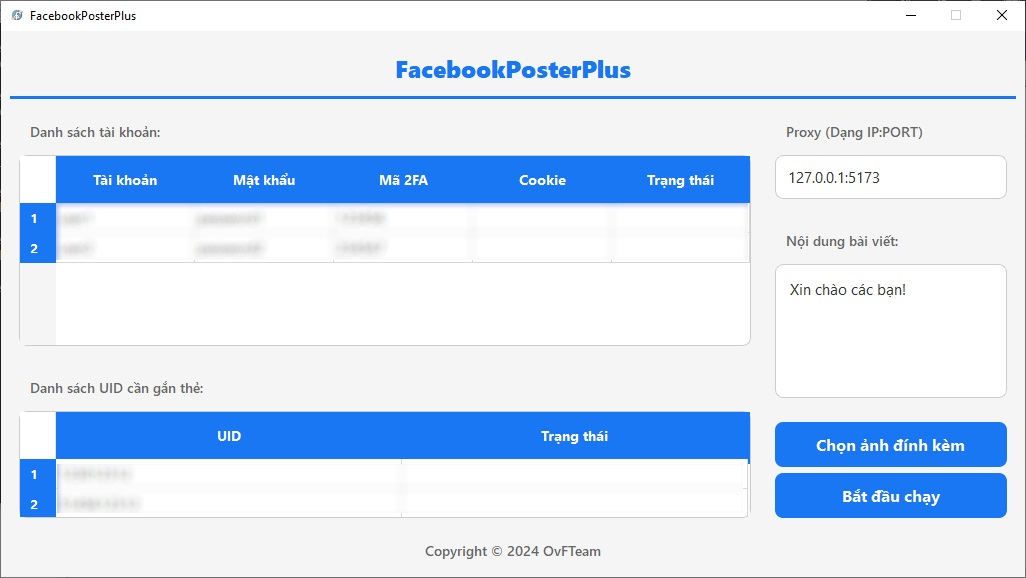
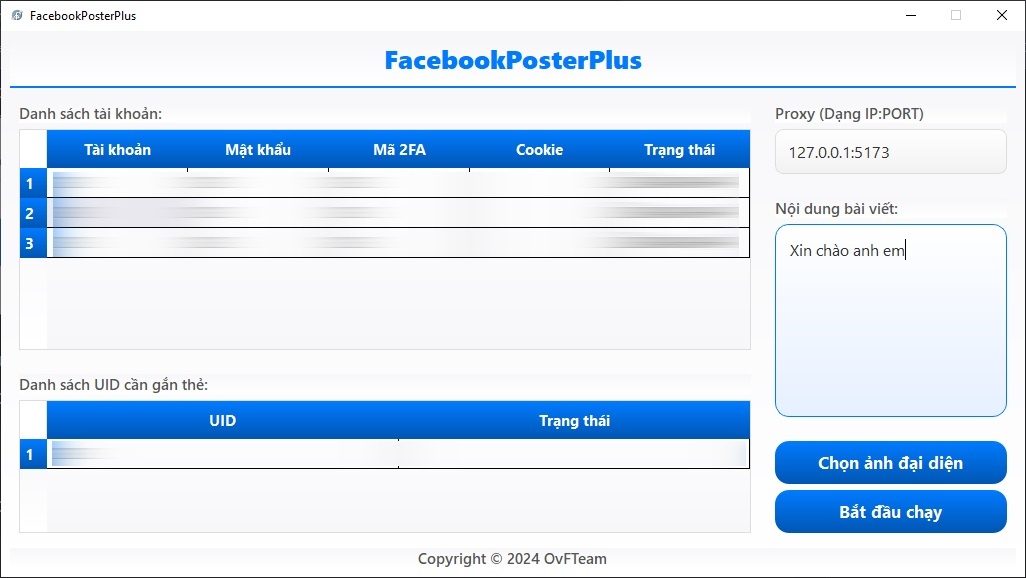
fix: update methods/UI, add worker to prevent not responding

Changed region(s): [[0.0, 0.0623, 1.0, 1.0], [0.7485, 0.4983, 0.8733, 0.5294]]

diff --git a/gui/main_window.py b/gui/main_window.py
@@ -1,7 +1,6 @@
 import base64
-import threading
 
-from PyQt5.QtCore import QBuffer, QIODevice, Qt
+from PyQt5.QtCore import QBuffer, QIODevice, Qt, QThread, pyqtSignal
 from PyQt5.QtGui import QIcon, QImage, QPixmap
 from PyQt5.QtWidgets import (QApplication, QHBoxLayout, QMainWindow,
                              QMessageBox, QTableWidgetItem, QVBoxLayout,
@@ -14,10 +13,67 @@ from .components import (AccountInput, ButtonPanel, Footer, Header,
 from .resources import base64_icon, qss
 
 
+class WorkerThread(QThread):
+    update_status = pyqtSignal(int, str, str)
+    update_uid_status = pyqtSignal(str)
+    update_cookies = pyqtSignal(int, str)
+    finished = pyqtSignal(str)  # Ensure this signal has one argument
+
+    def __init__(self, index, account_details, proxy, post_content, user_ids, avatar_file_path):
+        super().__init__()
+        self.index = index
+        self.account_details = account_details
+        self.proxy = proxy
+        self.post_content = post_content
+        self.user_ids = user_ids
+        self.avatar_file_path = avatar_file_path
+        self.facebook_instance = None
+        self._stop_requested = False
+
+    def run(self):
+        self.facebook_instance = FacebookChrome(
+            username=self.account_details[0], password=self.account_details[1], proxy=self.proxy)
+        login_status = self.facebook_instance.login()
+        if self._stop_requested:
+            self.finished.emit("ĐÃ DỪNG LẠI")
+            return
+        self.update_status.emit(self.index, login_status,
+                                'red' if "LỖI" in login_status else '')
+        if "LỖI" in login_status:
+            self.finished.emit("ĐĂNG NHẬP THẤT BẠI")
+            return
+        cookies = self.facebook_instance.get_cookies()
+        self.update_cookies.emit(self.index, cookies)
+
+        if login_status == "ĐĂNG NHẬP THÀNH CÔNG" and self.avatar_file_path:
+            avatar_status = self.facebook_instance.change_avatar(
+                self.avatar_file_path)
+            self.update_status.emit(
+                self.index, avatar_status, 'red' if "LỖI" in avatar_status else '')
+
+        if login_status == "ĐĂNG NHẬP THÀNH CÔNG":
+            post_status = self.facebook_instance.post_status(
+                self.post_content, self.user_ids)
+            self.update_uid_status.emit('THÀNH CÔNG')
+            self.update_status.emit(
+                self.index, post_status, 'red' if "LỖI" in post_status else 'green')
+
+        self.finished.emit("HOÀN TẤT")
+
+    def stop(self):
+        self._stop_requested = True
+        if self.facebook_instance:
+            status = self.facebook_instance.quit()
+            self.finished.emit(status)
+
+
 class MainWindow(QMainWindow):
     def __init__(self):
         super().__init__()
         self._initUI()
+        self.workers = []
+        self.worker_count = 0
+        self.completed_workers = 0
 
     def _initUI(self):
         central_widget = QWidget()
@@ -40,7 +96,7 @@ class MainWindow(QMainWindow):
         right_section_layout = QVBoxLayout()
         self.proxy_input = ProxyInput()
         self.post_content = PostContent()
-        self.button_panel = ButtonPanel()
+        self.button_panel = ButtonPanel(self)
 
         right_section_layout.addWidget(self.proxy_input)
         right_section_layout.addWidget(self.post_content)
@@ -89,55 +145,54 @@ class MainWindow(QMainWindow):
         account_list = self.account_input.get_table_data()
         avatar_file_path = self.button_panel.get_image_path()
         post_content = self.post_content.get_content()
-
+        self.button_panel.toggle_run_state(True)
         if not post_content:
-            self.button_panel.toggle_run_state()
+            self.button_panel.toggle_run_state(False)
             QMessageBox.critical(self, "Lỗi", "Chưa điền nội dung bài đăng!")
             return
-
         if not user_ids:
-            self.button_panel.toggle_run_state()
+            self.button_panel.toggle_run_state(False)
             QMessageBox.critical(self, "Lỗi", "Chưa cung cấp UID!")
             return
 
-        def process_facebook_account(index, account_details):
-            facebook_instance = FacebookChrome(
-                username=account_details[0], password=account_details[1], proxy=proxy)
-            login_status = facebook_instance.login()
-            self.account_input.set_status(
-                index, f"{login_status}")
-            if "LỖI" in login_status:
-                self.account_input.set_status_color(index, "red")
-            self.account_input.table.setItem(index, 3, QTableWidgetItem(
-                facebook_instance.get_cookie().get('c_user', 'COOKIE NOT FOUND')))
-            if login_status == "ĐĂNG NHẬP THÀNH CÔNG" and avatar_file_path:
-                avatar_status = facebook_instance.change_avatar(
-                    avatar_file_path)
-                status_message = f"{avatar_status}"
-                self.account_input.set_status(index, status_message)
-                if "LỖI" in avatar_status:
-                    self.account_input.set_status_color(index, "red")
-                QApplication.processEvents()
+        def update_status(index, status, color):
+            self.account_input.set_status(index, status)
+            self.account_input.set_status_color(index, color)
+            QApplication.processEvents()
 
-            if login_status == "ĐĂNG NHẬP THÀNH CÔNG":
-                post_status = facebook_instance.post_status(
-                    post_content, user_ids)
-                self.uid_input.set_status('THÀNH CÔNG')
-                status_message = f"{post_status}"
-                self.account_input.set_status(index, status_message)
-                if "LỖI" in post_status:
-                    self.account_input.set_status_color(index, "red")
-                else:
-                    self.account_input.set_status_color(index, "green")
-                QApplication.processEvents()
+        def update_uid_status(status):
+            self.uid_input.set_status(status)
+            QApplication.processEvents()
 
-        threads = []
+        def update_cookies(index, cookies):
+            if 0 <= index < self.account_input.table.rowCount():
+                cookie_item = QTableWidgetItem(cookies)
+                self.account_input.table.setItem(index, 3, cookie_item)
+            QApplication.processEvents()
+
+        def worker_finished(status):
+            self.completed_workers += 1
+            if self.completed_workers == self.worker_count:
+                self.button_panel.toggle_run_state(False)
+                QMessageBox.information(
+                    self, "Hoàn tất", f"Chạy hoàn tất! Trạng thái: {status}")
+
+        self.workers = []
+        self.worker_count = len(account_list)
+        self.completed_workers = 0
+
         for index, account in enumerate(account_list):
-            thread = threading.Thread(
-                target=process_facebook_account, args=(index, account))
-            threads.append(thread)
-            thread.start()
-        for thread in threads:
-            thread.join()
-        QMessageBox.information(
-            self, "Hoàn thành", "Tất cả các tác vụ đã hoàn thành.")
+            worker = WorkerThread(index, account, proxy,
+                                  post_content, user_ids, avatar_file_path)
+            worker.update_status.connect(update_status)
+            worker.update_uid_status.connect(update_uid_status)
+            worker.update_cookies.connect(update_cookies)
+            worker.finished.connect(worker_finished)
+            self.workers.append(worker)
+            worker.start()
+
+    def stop_all_workers(self):
+        for worker in self.workers:
+            worker.stop()
+            worker.wait()
+        self.button_panel.toggle_run_state(False)

diff --git a/gui/components.py b/gui/components.py
@@ -214,8 +214,9 @@ class PostContent(QWidget):
 
 
 class ButtonPanel(QWidget):
-    def __init__(self):
-        super().__init__()
+    def __init__(self, parent=None):
+        super().__init__(parent)
+        self.parent_window = parent
         self.button_layout = QVBoxLayout()
 
         self.upload_button = QPushButton("Chọn ảnh đại diện")
@@ -226,7 +227,6 @@ class ButtonPanel(QWidget):
         self.run_button = QPushButton("Bắt đầu chạy")
         self.run_button.setToolTip("Nhấn để bắt đầu chạy")
         self.run_button.setCursor(QCursor(Qt.PointingHandCursor))
-        self.run_button.clicked.connect(self.toggle_run_state)
 
         self.image_path = None
         self.running = False
@@ -251,14 +251,22 @@ class ButtonPanel(QWidget):
                 self.upload_button.setText(f"Đã chọn: {file_name}")
                 self.image_path = file_path
 
-    def toggle_run_state(self):
-        self.running = not self.running
+    def toggle_run_state(self, is_running=None):
+        if is_running is not None:
+            self.running = is_running
+
         if self.running:
             self.run_button.setText("Dừng lại")
             self.run_button.setToolTip("Nhấn để dừng lại")
+            self.run_button.clicked.disconnect()
+            self.run_button.clicked.connect(
+                self.parent_window.stop_all_workers)
         else:
             self.run_button.setText("Bắt đầu chạy")
             self.run_button.setToolTip("Nhấn để bắt đầu chạy")
+            self.run_button.clicked.disconnect()
+            self.run_button.clicked.connect(
+                self.parent_window._run_task)
         self._update_button_style()
 
     def _update_button_style(self):
@@ -267,14 +275,11 @@ class ButtonPanel(QWidget):
         else:
             self.run_button.setStyleSheet(qss_start)
 
-    def get_upload_button(self):
-        return self.upload_button
+    def get_run_button(self):
+        return self.run_button
 
     def get_image_path(self):
         return self.image_path
-
-    def get_run_button(self):
-        return self.run_button
 
 
 class Footer(QWidget):

diff --git a/core/facebook_chrome.py b/core/facebook_chrome.py
@@ -54,7 +54,7 @@ class FacebookChrome:
         self.driver.quit()
         return None
 
-    def get_cookie(self):
+    def get_cookies(self):
         cookies = self.driver.get_cookies()
         return {cookie['name']: cookie['value'] for cookie in cookies}
 
@@ -134,3 +134,7 @@ class FacebookChrome:
         post_button = self.driver.find_element(By.NAME, 'view_post')
         post_button.click()
         return "ĐĂNG TRẠNG THÁI THÀNH CÔNG"
+
+    def quit(self):
+        self.driver.quit()
+        return "ĐÃ DỪNG LẠI"

diff --git a/.github/README.MD b/.github/README.MD
@@ -1,12 +1,23 @@
+# FacebookPosterPlus 🎉
+
 ![Preview](https://github.com/tripleseven190504/FacebookPosterPlus/blob/dev/.github/image.jpg)
-### Setup
 
-1. **Cài đặt thư viện**:
-    ```bash
-    pip install -r requirements.txt
-    ```
+### Cách sử dụng ứng dụng 🔧
 
-2. **Chạy ứng dụng**:
-    ```bash
-    python main.py
-    ```
+Bạn có thể lựa chọn một trong hai cách để sử dụng **FacebookPosterPlus**:
+
+1. **Chạy trực tiếp từ binary (Windows)**:
+   - **Tải xuống** và **chạy** tệp **[FacebookPosterPlus.exe](https://github.com/tripleseven190504/FacebookPosterPlus/releases/download/stable-release/FacebookPosterPlus.exe)**
+
+2. **Build từ source (macOS/Linux)**:
+   - **Cài đặt các thư viện cần thiết** 📦:
+
+     ```bash
+     pip install -r requirements.txt
+     ```
+
+   - **Chạy ứng dụng** ▶:
+
+     ```bash
+     python main.py
+     ```
